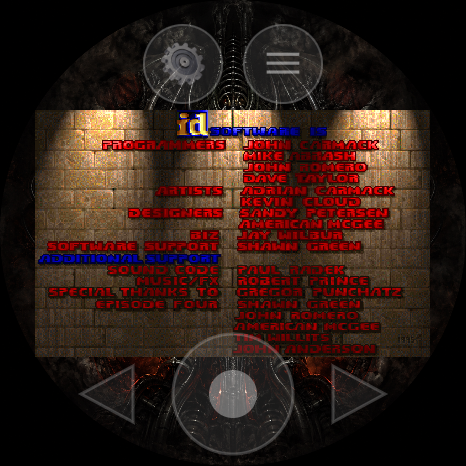
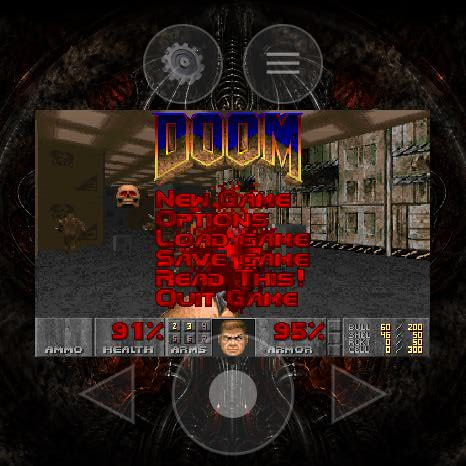
docs: trim README screenshots to Oniro and Watch 5, refresh the watch shot
Drop the HarmonyOS phone column (and its now-unused screenshot-mobile.png); the
Oniro phone and the Watch 5 shots cover the two device families. Replace the watch
screenshot with the in-game DOOM menu on the Huawei Watch 5.

diff --git a/README.md b/README.md
@@ -10,9 +10,9 @@ layer and an ArkTS/ArkUI touch overlay, shipping the free
 ![Language](https://img.shields.io/badge/lang-ArkTS%20and%20C%2FC%2B%2B-orange)
 ![License](https://img.shields.io/badge/license-GPLv2-green)
 
-| Phone (HarmonyOS) | Phone (Oniro) | Watch |
-|---|---|---|
-| ![Phone gameplay](assets/screenshot-mobile.png) | ![Oniro / OpenHarmony](assets/screenshot-openharmony.png) | ![Watch](assets/screenshot-watch.png) |
+| Volla Phone X23 (Oniro/OH 6.1) | Watch 5 (HarmonyOS 6.1) |
+|---|---|
+| ![Oniro / OpenHarmony](assets/screenshot-openharmony.png) | ![Watch 5](assets/screenshot-watch.png) |
 
 ## Features
 
